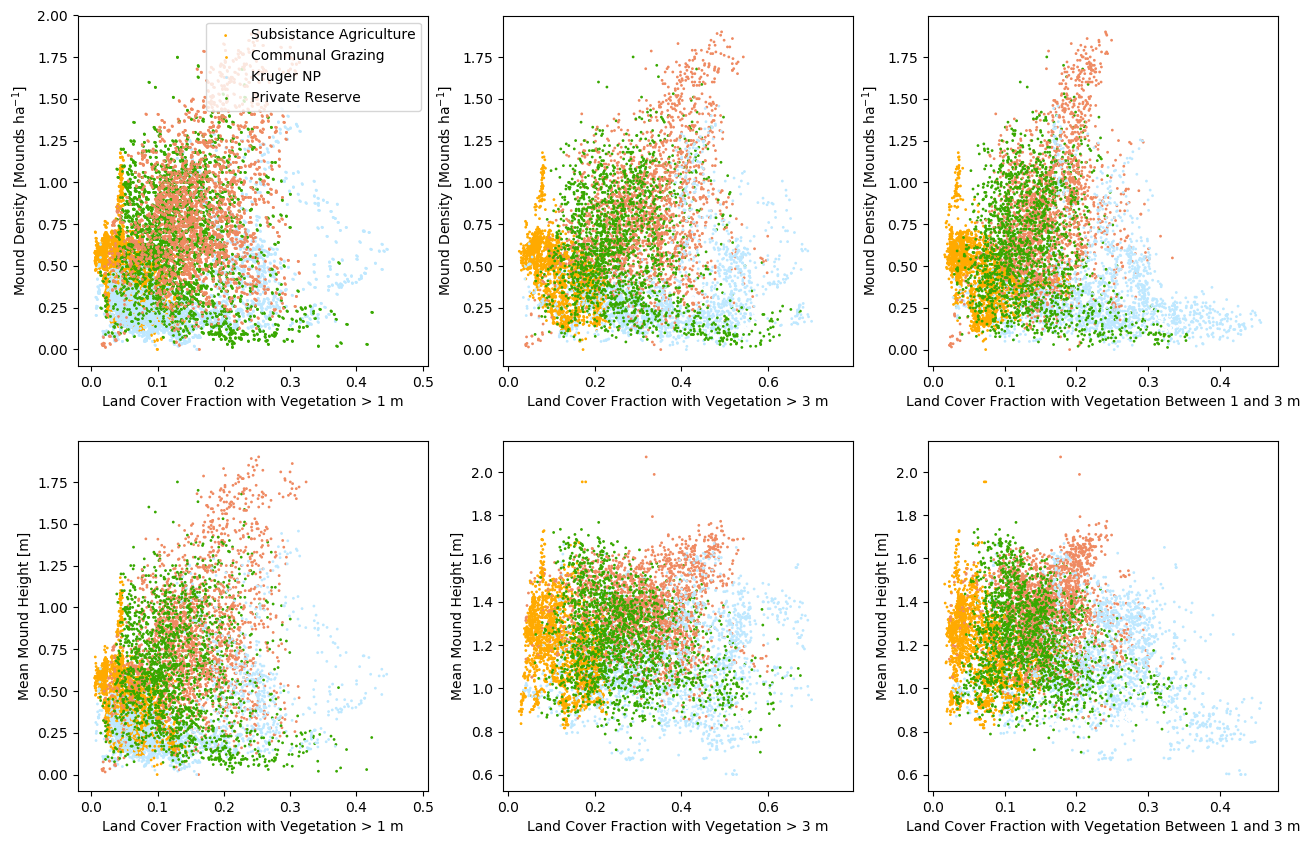
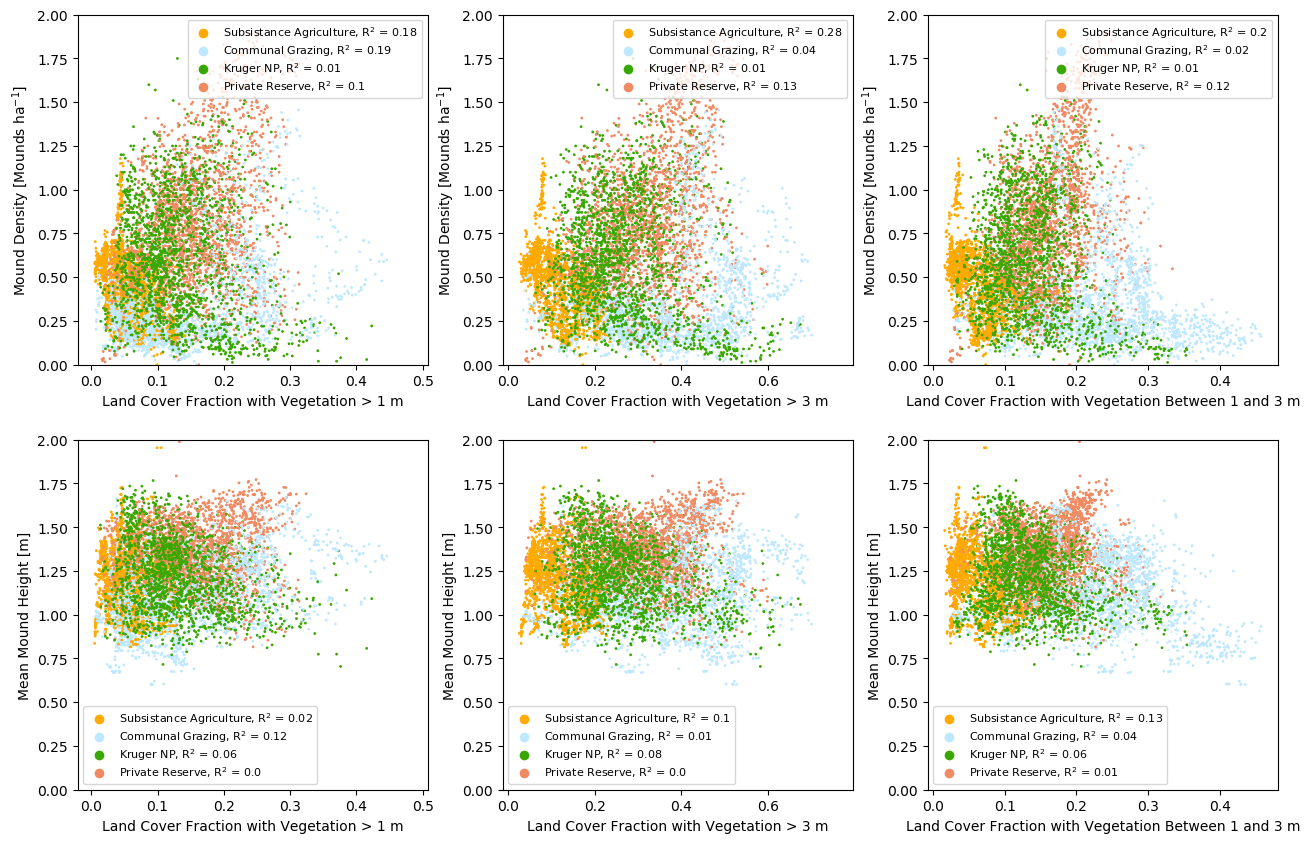
updated si fig 4 with r2 values, and small bug fix

diff --git a/si_plots.py b/si_plots.py
@@ -10,6 +10,7 @@ import matplotlib.gridspec as gridspec
 from scipy import stats
 import sys, os
 from matplotlib.lines import Line2D
+from matplotlib.patches import Patch
 
 
 
@@ -243,19 +244,29 @@ for i in range(0,len(un_treat)):
 
 fig = plt.figure(figsize=(10,10))
 
+def make_legend(r2_values):
+    legend_elements = [Line2D([0], [0], marker='o', color='w', label=un_treat_label[x].replace('\n',' ') + ', R$^2$ = ' + str(round(r2_values[x],2)),
+                   markerfacecolor=treat_colors[x], markersize=8) for x in range(len(un_treat))]
+    return legend_elements
+
 
 ax = fig.add_axes([ax_b,ax_b,ax_s,ax_s])
-plt.scatter(cover_g1,density,c=colors,s=1)
+plt.scatter(cover_g1,height,c=colors,s=1)
+r2_values = []
 for _n in range(len(un_treat_label)):
     valid = np.logical_and(np.isnan(height) == False, un_treat[_n] == treatment)
     slope, intercept, r_value, p_value, std_err = stats.linregress(cover_g1[valid],height[valid])
     print((un_treat_label[_n],r_value**2))
+    r2_values.append(r_value**2)
 
+ax.legend(handles=make_legend(r2_values), labelspacing=0.2, fontsize=8)
 plt.xlabel('Land Cover Fraction with Vegetation > 1 m')
 plt.ylabel('Mean Mound Height [m]')
+plt.ylim([0,2])
 
 ax = fig.add_axes([ax_b,(ax_b*2+ax_s),ax_s,ax_s])
 plt.scatter(cover_g1,density,c=colors,s=1)
+r2_values = []
 slope, intercept, r_value, p_value, std_err = stats.linregress(cover_g1,density)
 print('cover > 1, density')
 plt.xlabel('Land Cover Fraction with Vegetation > 1 m')
@@ -264,15 +275,19 @@ for _n in range(len(un_treat_label)):
     valid = np.logical_and(np.isnan(density) == False, un_treat[_n] == treatment)
     slope, intercept, r_value, p_value, std_err = stats.linregress(cover_g1[valid],density[valid])
     print((un_treat_label[_n],r_value**2))
-    plt.scatter(cover_g1[treatment == un_treat[_n]],density[treatment == un_treat[_n]],c=treat_colors[_n],s=1)
+    r2_values.append(r_value**2)
 
-plt.legend([x.replace('\n',' ') for x in un_treat_label])
+plt.ylim([0,2])
+ax.legend(handles=make_legend(r2_values), labelspacing=0.2, fontsize=8)
+
+#plt.legend([x.replace('\n',' ') for x in un_treat_label])
 #legend = ax.legend([x.replace('\n',' ') for x in un_treat_label], frameon=True)
 #lgnd = plt.legend([x.replace('\n',' ') for x in un_treat_label])
 #ax.legend(markerscale=5)
 
 ax = fig.add_axes([(ax_b*2+ax_s),ax_b,ax_s,ax_s])
 plt.scatter(cover_g3,height,c=colors,s=1)
+r2_values = []
 slope, intercept, r_value, p_value, std_err = stats.linregress(cover_g3[np.isnan(height) == False],height[np.isnan(height) == False])
 print('cover > 3, height')
 plt.xlabel('Land Cover Fraction with Vegetation > 3 m')
@@ -281,10 +296,15 @@ for _n in range(len(un_treat_label)):
     valid = np.logical_and(np.isnan(height) == False, un_treat[_n] == treatment)
     slope, intercept, r_value, p_value, std_err = stats.linregress(cover_g3[valid],height[valid])
     print((un_treat_label[_n],r_value**2))
+    r2_values.append(r_value**2)
+
+plt.ylim([0,2])
+ax.legend(handles=make_legend(r2_values), labelspacing=0.2, fontsize=8)
 
 ax = fig.add_axes([(ax_b*2+ax_s),(ax_b*2+ax_s),ax_s,ax_s])
 plt.scatter(cover_g3,density,c=colors,s=1)
 slope, intercept, r_value, p_value, std_err = stats.linregress(cover_g3,density)
+r2_values = []
 print('cover > 3, density')
 plt.xlabel('Land Cover Fraction with Vegetation > 3 m')
 plt.ylabel('Mound Density [Mounds ha$^{-1}$]')
@@ -292,10 +312,15 @@ for _n in range(len(un_treat_label)):
     valid = np.logical_and(np.isnan(density) == False, un_treat[_n] == treatment)
     slope, intercept, r_value, p_value, std_err = stats.linregress(cover_g3[valid],density[valid])
     print((un_treat_label[_n],r_value**2))
+    r2_values.append(r_value**2)
+
+plt.ylim([0,2])
+ax.legend(handles=make_legend(r2_values), labelspacing=0.2, fontsize=8)
 
 ax = fig.add_axes([(ax_b*3+ax_s*2),ax_b,ax_s,ax_s])
 plt.scatter(cover_b13,height,c=colors,s=1)
 slope, intercept, r_value, p_value, std_err = stats.linregress(cover_b13[np.isnan(height) == False],height[np.isnan(height) == False])
+r2_values = []
 print('cover (> 1 and <=3), height')
 plt.xlabel('Cover (> 1 and <= 3) Fraction')
 plt.xlabel('Land Cover Fraction with Vegetation Between 1 and 3 m')
@@ -304,10 +329,15 @@ for _n in range(len(un_treat_label)):
     valid = np.logical_and(np.isnan(height) == False, un_treat[_n] == treatment)
     slope, intercept, r_value, p_value, std_err = stats.linregress(cover_b13[valid],height[valid])
     print((un_treat_label[_n],r_value**2))
+    r2_values.append(r_value**2)
+
+plt.ylim([0,2])
+ax.legend(handles=make_legend(r2_values), labelspacing=0.2, fontsize=8)
 
 ax = fig.add_axes([(ax_b*3+ax_s*2),(ax_b*2+ax_s),ax_s,ax_s])
 plt.scatter(cover_b13,density,c=colors,s=1)
 slope, intercept, r_value, p_value, std_err = stats.linregress(cover_b13,density)
+r2_values = []
 print('cover (> 1 and <=3), density')
 plt.xlabel('Land Cover Fraction with Vegetation Between 1 and 3 m')
 plt.ylabel('Mound Density [Mounds ha$^{-1}$]')
@@ -315,6 +345,10 @@ for _n in range(len(un_treat_label)):
     valid = np.logical_and(np.isnan(density) == False, un_treat[_n] == treatment)
     slope, intercept, r_value, p_value, std_err = stats.linregress(cover_b13[valid],density[valid])
     print((un_treat_label[_n],r_value**2))
+    r2_values.append(r_value**2)
+
+plt.ylim([0,2])
+ax.legend(handles=make_legend(r2_values), labelspacing=0.2, fontsize=8)
 
 plt.savefig('figs/figure_si_4.png',dpi=100,bbox_inches='tight')
 plt.clf()
